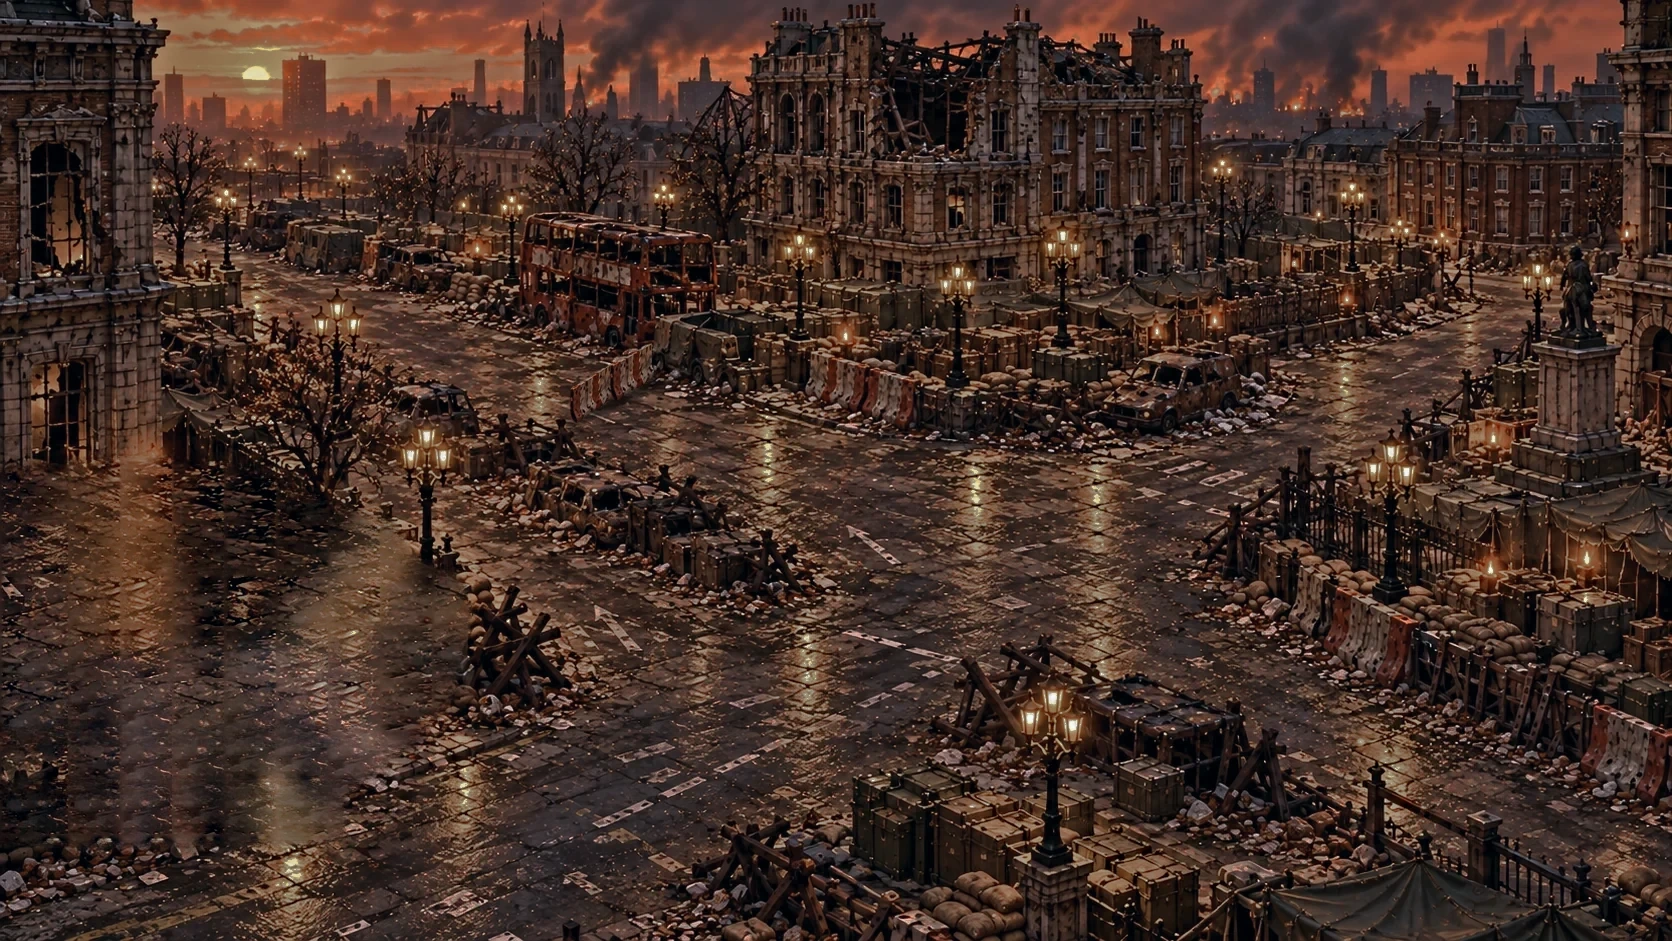
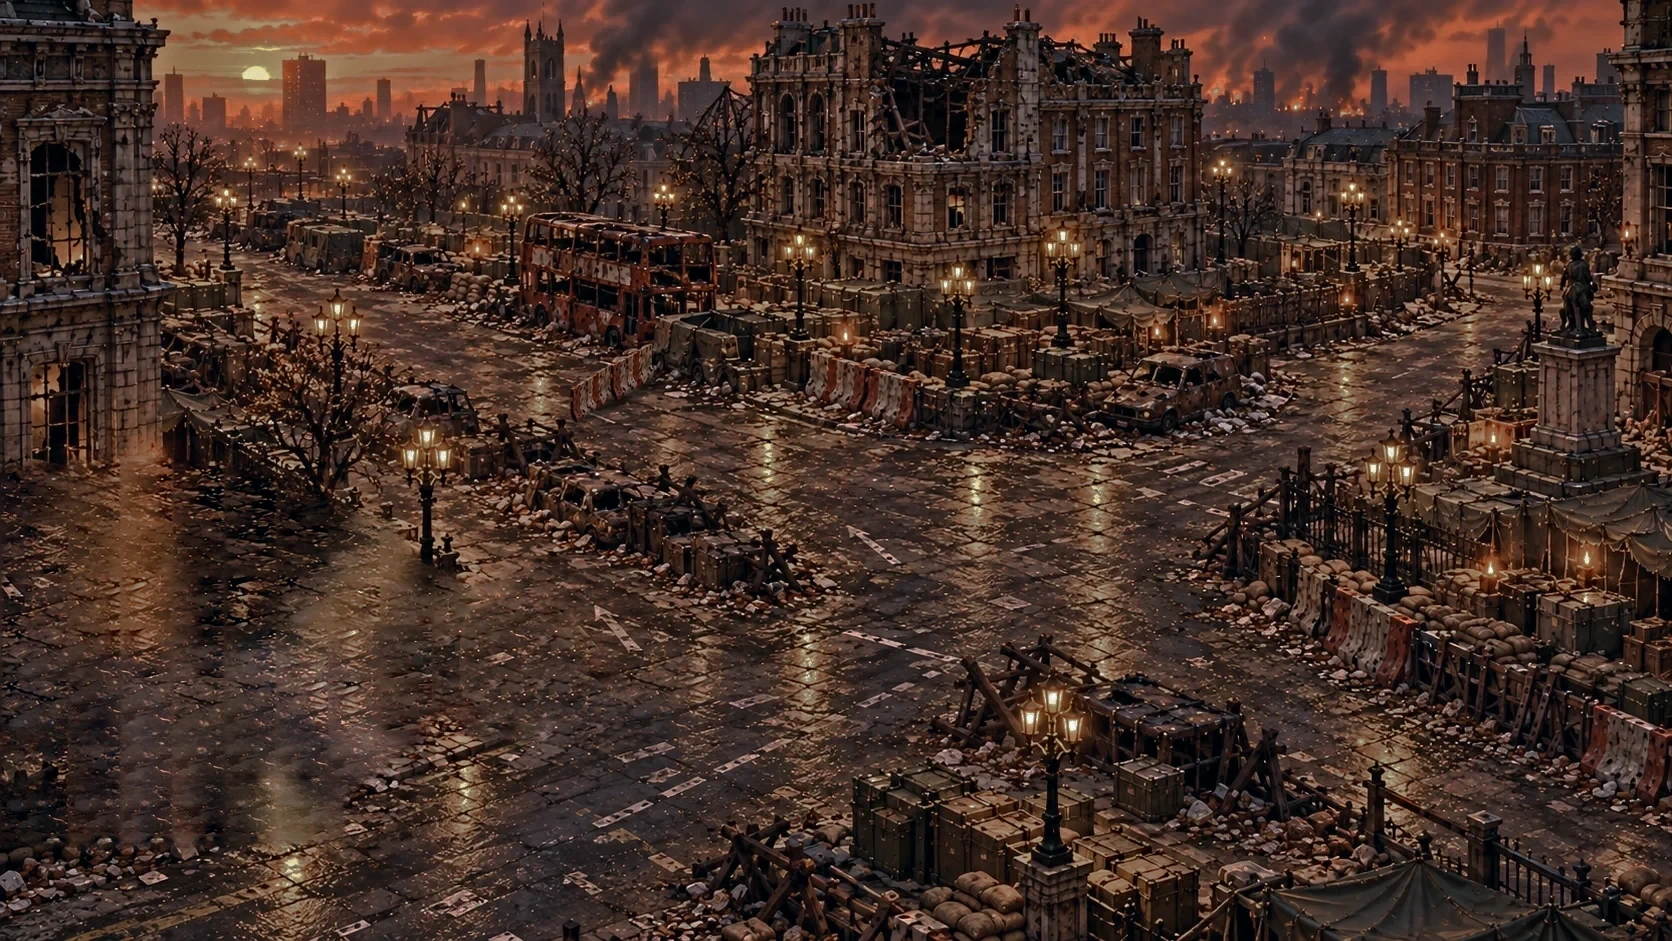
area8: paint the czech-hedgehog and sandbag pile out of the arrival road, open road left; original kept as rollback

Changed region(s): [[0.2488, 0.6164, 0.3732, 0.8013]]

diff --git a/Web/tests/data-areas.test.js b/Web/tests/data-areas.test.js
@@ -16,7 +16,7 @@ const raw = () => structuredClone(JSON.parse(rawText));
 const manifest = JSON.parse(fs.readFileSync(new URL("../public/world/manifest.json", import.meta.url)));
 
 test("the data file is pinned", () => {
[2 lines of base64/hex data omitted]
 });
 
 test("areaDefinitions and areaAssets equal the old in-code export (values and key order) except the one stale identity row, and are frozen", () => {

diff --git a/art/area8-clear-road/clear_road.py b/art/area8-clear-road/clear_road.py
@@ -1,0 +1,97 @@
+"""clear_road.py <mask.json> <sources.json> <in.webp> <out.webp>: paint a pile out of the Area 8 phone backdrop and leave open road.
+
+Low and high frequencies are filled separately so the fill has no tinted halo:
+  low  = the colour and light of the road around the hole (normalised blur of the pixels outside the mask, sigma 18);
+  high = cobble texture quilted from clean road at about the same height in the picture (64 px patches, feathered, no marking
+         pixels, no source spot reused), high-passed so it carries texture but no colour of its own.
+The sum is blended into the picture once with a Poisson (cv2.seamlessClone, normal clone) so the border matches exactly.
+Run with numpy, opencv and Pillow. Env: CLEAR_SIGMA, CLEAR_QUALITY, CLEAR_SEED, CLEAR_DILATE."""
+import json, os, sys
+import cv2
+import numpy as np
+from PIL import Image
+
+mask_file, src_file, inp, out = sys.argv[1:5]
+img = np.asarray(Image.open(inp).convert("RGB")).copy()
+h, w = img.shape[:2]
+mask = np.zeros((h, w), np.uint8)
+for poly in json.load(open(mask_file)):
+    cv2.fillPoly(mask, [np.array(poly, np.int32)], 255)
+dil = int(os.environ.get("CLEAR_DILATE", 11))
+mask = cv2.dilate(mask, cv2.getStructuringElement(cv2.MORPH_ELLIPSE, (dil, dil)))
+SIGMA = float(os.environ.get("CLEAR_SIGMA", 18))
+P, STEP, RAMP, BAND = 64, 48, 14, 110
+rng = np.random.default_rng(int(os.environ.get("CLEAR_SEED", 7)))
+
+f = img.astype(np.float32)
+known = (cv2.dilate(mask, np.ones((int(os.environ.get("CLEAR_GUARD", 21)),) * 2, np.uint8)) == 0).astype(np.float32)  # low frequencies ignore the rubble that spills just outside the mask
+num = cv2.GaussianBlur(f * known[..., None], (0, 0), SIGMA)
+den = cv2.GaussianBlur(known, (0, 0), SIGMA)[..., None]
+low = num / np.maximum(den, 1e-3)
+# where the hole is far from any known pixel the normalised blur is unreliable: widen it
+far = den[..., 0] < 0.05
+if far.any():
+    num2 = cv2.GaussianBlur(f * known[..., None], (0, 0), SIGMA * 3)
+    den2 = cv2.GaussianBlur(known, (0, 0), SIGMA * 3)[..., None]
+    low = np.where(far[..., None], num2 / np.maximum(den2, 1e-3), low)
+
+rects = json.load(open(src_file))
+clean = np.zeros((h, w), np.uint8)
+for x0, y0, x1, y1 in rects:
+    clean[y0:y1, x0:x1] = 1
+hsv = cv2.cvtColor(img, cv2.COLOR_RGB2HSV)
+paint = ((hsv[..., 2] > 150) & (hsv[..., 1] < 90)).astype(np.uint8)
+paint = cv2.morphologyEx(paint, cv2.MORPH_OPEN, cv2.getStructuringElement(cv2.MORPH_ELLIPSE, (5, 5)))
+paint_share = cv2.boxFilter(paint.astype(np.float32), -1, (P, P))
+luma = cv2.cvtColor(img, cv2.COLOR_RGB2GRAY).astype(np.float32)
+hp_luma = luma - cv2.GaussianBlur(luma, (0, 0), 10)
+local_std = np.sqrt(np.maximum(cv2.boxFilter(hp_luma ** 2, -1, (P, P)), 0))
+pale_share = cv2.boxFilter((luma > float(os.environ.get("CLEAR_PALE", 120))).astype(np.float32), -1, (P, P))  # pale slabs and rubble read as clutter once copied
+valid = (cv2.erode(clean, np.ones((P, P), np.uint8)) > 0) & (paint_share < 0.002) & (pale_share < float(os.environ.get("CLEAR_PALE_SHARE", 0.01)))
+highpass = f - cv2.GaussianBlur(f, (0, 0), 10)
+
+ys, xs = np.where(mask > 0)
+bx0, bx1, by0, by1 = xs.min(), xs.max() + 1, ys.min(), ys.max() + 1
+ring = (cv2.dilate(mask, np.ones((61, 61), np.uint8)) > 0) & (mask == 0)
+target_std = float(os.environ.get("CLEAR_STD", np.sqrt((hp_luma[ring] ** 2).mean())))
+print("target texture std", round(target_std, 2), "candidates", int(valid.sum()))
+
+win1 = np.ones(P, np.float32)
+win1[:RAMP] = np.linspace(0.05, 1, RAMP)
+win1[-RAMP:] = np.linspace(1, 0.05, RAMP)
+win = np.outer(win1, win1)[..., None]
+acc = np.zeros((h, w, 3), np.float32)
+wacc = np.zeros((h, w, 1), np.float32)
+used = []
+for py in range(by0 - 8, by1, STEP):
+    for px in range(bx0 - 8, bx1, STEP):
+        x0, y0 = int(min(max(px, 0), w - P)), int(min(max(py, 0), h - P))
+        if mask[y0:y0 + P, x0:x0 + P].sum() == 0:
+            continue
+        cands = []
+        for ry in range(max(0, y0 - BAND), min(h - P, y0 + BAND) + 1, 4):
+            row = valid[ry + P // 2, P // 2: w - P // 2]
+            cands += [(int(rx), ry) for rx in np.where(row > 0)[0][::4]]
+        cands = [c for c in cands if all(abs(c[0] - u[0]) > 40 or abs(c[1] - u[1]) > 40 for u in used)] or cands
+        err = np.array([(local_std[cy + P // 2, cx + P // 2] - target_std) ** 2 for cx, cy in cands], np.float32)
+        sx, sy = cands[int(rng.choice(np.argsort(err)[:12]))]
+        used.append((sx, sy))
+        acc[y0:y0 + P, x0:x0 + P] += highpass[sy:sy + P, sx:sx + P] * win
+        wacc[y0:y0 + P, x0:x0 + P] += win
+tex = acc / np.maximum(wacc, 1e-3)
+tex[wacc[..., 0] < 1e-3] = 0
+tex *= float(os.environ.get("CLEAR_GAIN", 1.0))  # averaged feathered overlaps lose a little contrast
+fill = np.clip(low + tex, 0, 255).astype(np.uint8)
+m2 = (mask > 0).astype(np.uint8) * 255
+# Border match: the colour step between the picture and the fill on a 7 px ring just outside the hole, spread smoothly inward
+# (a membrane offset, the part of a Poisson blend that matters here), so the fill meets the road with no seam.
+ring_out = ((cv2.dilate(m2, np.ones((15, 15), np.uint8)) > 0) & (m2 == 0)).astype(np.float32)
+diff = (f - np.clip(low + tex, 0, 255)) * ring_out[..., None]
+off_num = cv2.GaussianBlur(diff, (0, 0), 7)
+off_den = cv2.GaussianBlur(ring_out, (0, 0), 7)[..., None]
+offset = off_num / np.maximum(off_den, 1e-3)
+blended = np.clip(low + tex + offset, 0, 255)
+soft = cv2.GaussianBlur(m2, (0, 0), 2.5).astype(np.float32)[..., None] / 255
+result = np.clip(img * (1 - soft) + blended * soft + 0.5, 0, 255).astype(np.uint8)
+Image.fromarray(result).save(out, "WEBP", quality=int(os.environ.get("CLEAR_QUALITY", 93)), method=6)
+print("patches", len(used), "mask px", int((m2 > 0).sum()), "done")
